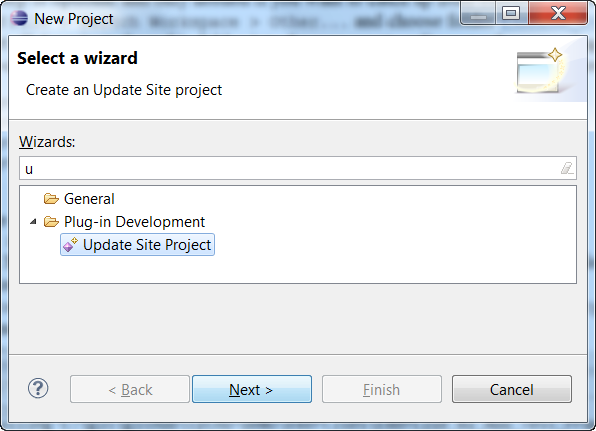
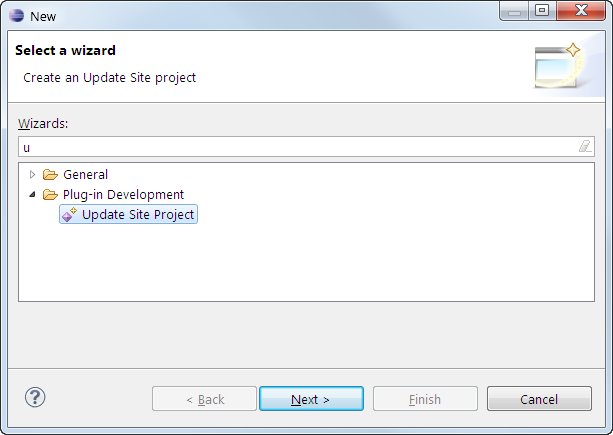
Instructions for exercise 4

Changed region(s): [[0.0, 0.0, 1.0, 0.9954]]

diff --git a/exercises/Exercise_04_Add_P2_Repository/tychodemo.parent/README.html b/exercises/Exercise_04_Add_P2_Repository/tychodemo.parent/README.html
@@ -1,7 +1,7 @@
 <!DOCTYPE html PUBLIC "-//W3C//DTD XHTML 1.0 Transitional//EN" "http://www.w3.org/TR/xhtml1/DTD/xhtml1-transitional.dtd">
 <html xmlns="http://www.w3.org/1999/xhtml">
 <head>
-<title>EclipseCon 2011 Tycho Tutorial - Exercise 4</title>
+<title>EclipseCon 2012 Tycho Tutorial - Exercise 4</title>
 </head>
 <body>
 	<p align="center">
@@ -19,23 +19,27 @@
 
 	This section is optional and only needed if you want to catch up from exercise 3 or reset your workspace.
 	<ul>
-		<li>Select <tt>File > Switch Workspace > Other...</tt> and choose folder <a href="../">Exercise_04_Add_P2_Repository</a>.<br /> Import all 4 projects from this folder into the new empty eclipse
-			workspace using <tt>File > Import > Existing Maven Projects</tt>
-		</li>
-		<li>Right-click on <tt>tychodemo.parent > Run As > Maven install</tt> The build should succeed and build 4 modules <pre>
+		<li>Select<tt> File > Switch Workspace > Other...</tt> and choose folder <a href="../">Exercise_04_Add_P2_Repository</a>.</li>
+		<li>Import all four projects from this folder into using <tt>File > Import > Existing Maven Projects</tt></li>
+		<li>Trigger a build on the parent POM: <ul>
+			<li>Right-click on <tt>tychodemo.parent > Run As > Maven</tt></li>
+			<li>If an launch configuration dialog appears, enter the goals <tt>clean install</tt> and hit <tt>Run</tt></li>
+		</ul></li>
+		<li>The build should succeed and build four modules <pre>
    tychodemo.parent 
    tychodemo.bundle 
    tychodemo.bundle.tests
-   tychodemo.feature
-   </pre>
+   tychodemo.feature</pre>
 		</li>
 	</ul>
 
 	<h3>Creating a p2 repository</h3>
 	<ol>
-		<li>Create a new update site project <tt>tychodemo.repository</tt><br /> <tt>File > New > Other > Plug-in Development > Update Site Project</tt><br /> Note: Make sure the new project root
-			folder is located next to the existing module folders (Uncheck "Use default location" in the project creation wizard and enter location if necessary) <br /> <img
-			src="../resources/new_updatesite.png" /><br /> <img src="../resources/new_updatesite_name.png" />
+		<li>Create a new update site project <tt>tychodemo.repository</tt>
+			<br /><tt>File > New > Other > Plug-in Development > Update Site Project</tt>
+			<!-- <br />Note: Make sure the new project root folder is located next to the existing module folders (Uncheck "Use default location" in the project creation wizard and enter location if necessary) -->
+			<br /><img src="../resources/new_updatesite.png" />
+			<br /><img src="../resources/new_updatesite_2.png" />
 		</li>
 		<li>In <tt>site.xml</tt>, create a new category <tt>tychodemo.category</tt> and add the feature <tt>tychodemo.feature</tt> to it:<br /> <img src="../resources/new_category.png" /><br /> <img
 			src="../resources/add_feature.png" /><br />
@@ -44,36 +48,25 @@
 		<li>Rename <tt>site.xml</tt> to <tt>category.xml</tt> using Right-click <tt>Refactor > Rename...</tt><br /> <img src="../resources/rename.png" />
 
 		</li>
-		<li>Add a <tt>pom.xml</tt> file in the update site project root with contents: <pre>
-  &lt;?xml version="1.0" encoding="UTF-8"?&gt;
-  &lt;project
-    xsi:schemaLocation="http://maven.apache.org/POM/4.0.0 http://maven.apache.org/xsd/maven-4.0.0.xsd" xmlns="http://maven.apache.org/POM/4.0.0" xmlns:xsi="http://www.w3.org/2001/XMLSchema-instance"&gt;
-    &lt;modelVersion&gt;4.0.0&lt;/modelVersion&gt;
-    &lt;parent&gt;
-      &lt;groupId&gt;tychodemo&lt;/groupId&gt;
-      &lt;artifactId&gt;tychodemo.parent&lt;/artifactId&gt;
-      &lt;version&gt;1.0.0-SNAPSHOT&lt;/version&gt;
-      &lt;relativePath&gt;../tychodemo.parent/pom.xml&lt;/relativePath&gt;
-    &lt;/parent&gt;
-    &lt;groupId&gt;tychodemo&lt;/groupId&gt;
-    &lt;artifactId&gt;tychodemo.repository&lt;/artifactId&gt;
-    &lt;version&gt;1.0.0-SNAPSHOT&lt;/version&gt;
-    &lt;packaging&gt;eclipse-repository&lt;/packaging&gt;
-  &lt;/project&gt;
-</pre> Note the packaging type <tt>eclipse-repository</tt> indicating that the build result of this module will be a p2 repository.
-		</li>
-		<li>Add the repository module to <tt>modules</tt> section of <tt>tychodemo.parent</tt> POM: <pre>
-    &lt;module&gt;../tychodemo.repository&lt;/module&gt;
-</pre>
-		</li>
-		<li>Right-click <tt>tychodemo.parent > Run As > Maven install</tt><br /> Expected results:
+		<li>Include the new project in the build: <ul>
+			<li>Right-click on <tt>tychodemo.repository > Configure > Convert to Maven Project</tt></li>
+			<li>Enter the group ID <tt>tychodemo</tt>, version <tt>1.0.0-SNAPSHOT</tt> and packaging <tt>eclipse-repository</tt>. Background info: the packaging type <tt>eclipse-repository</tt> tells Tycho to build a p2 repository.
+				<br /><img src="../resources/add_pom.png" />
+			</li>
+			<li>Open the <tt>pom.xml</tt> of <tt>tychodemo.parent</tt> and click on <tt>Add...</tt> in the <tt>Modules</tt> section
+				<br /><img src="../resources/add_to_parent.png" />
+			</li>
+			<li>Select the <tt>tychodemo.bundle</tt> module, select <tt>Update POM parent section in selected projects</tt>, and hit <tt>OK</tt>
+				<br /><img src="../resources/add_to_parent_2.png" />
+			</li>
+		</ul></li>
+		<li>Run the build of <tt>tychodemo.parent</tt>, e.g. by selecting <tt>tychodemo.parent</tt> from the run history
+			<br /> Expected results:
 			<ul>
-				<li><tt>SUCCESSFUL</tt> build including <tt>tychodemo.repository</tt> module.</li>
-				<li>A p2 repository in <a href="../tychodemo.repository/target/repository/"><tt>tychodemo.repository/target/repository/</tt></a> and
-				</li>
-				<li>the zipped repository in <a href="../tychodemo.repository/target/tychodemo.repository.zip"><tt>tychodemo.repository/target/tychodemo.repository.zip</tt></a></li>
+				<li><tt>SUCCESSFUL</tt> build including <tt>tychodemo.repository</tt> module,</li>
+				<li>A p2 repository in <a href="../tychodemo.repository/target/repository/"><tt>tychodemo.repository/target/repository/</tt></a>, and</li>
+				<li>The zipped p2 repository in <a href="../tychodemo.repository/target/tychodemo.repository.zip"><tt>tychodemo.repository/target/tychodemo.repository.zip</tt></a></li>
 			</ul> <img src="../resources/build_success.png" />
-
 		</li>
 		<li>Test the p2 repository just created:<br />
 			<ul>
